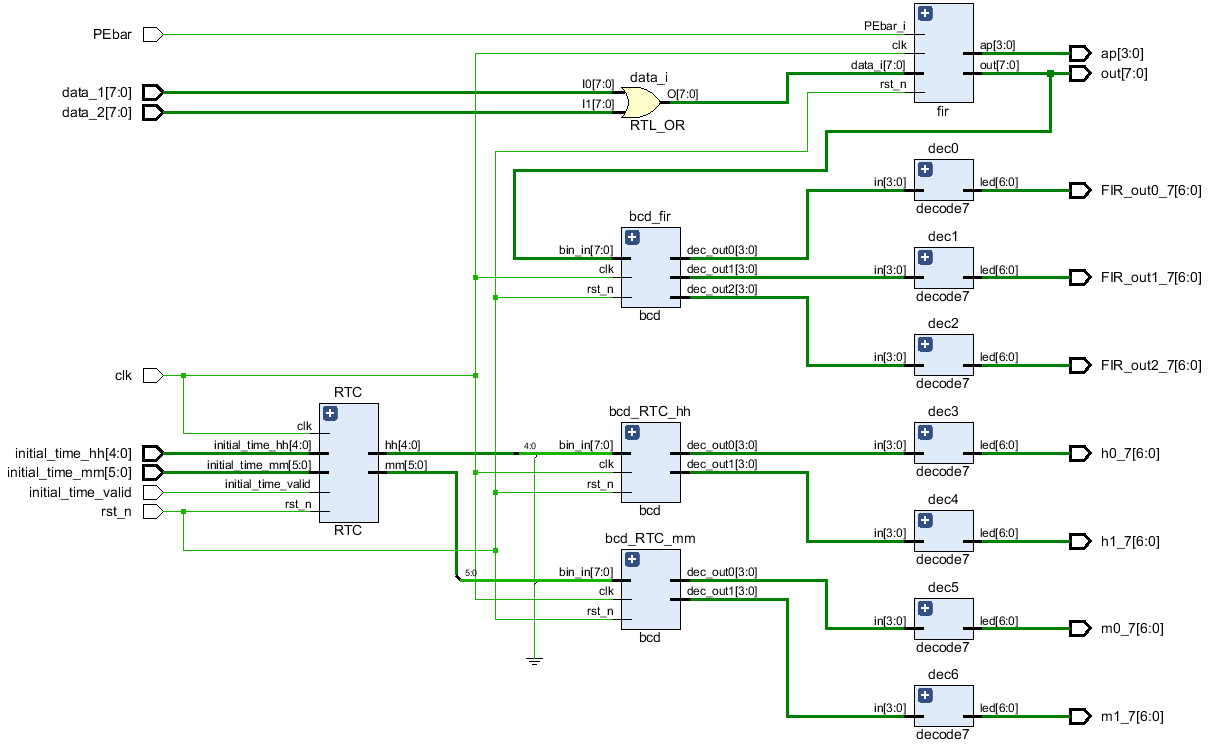
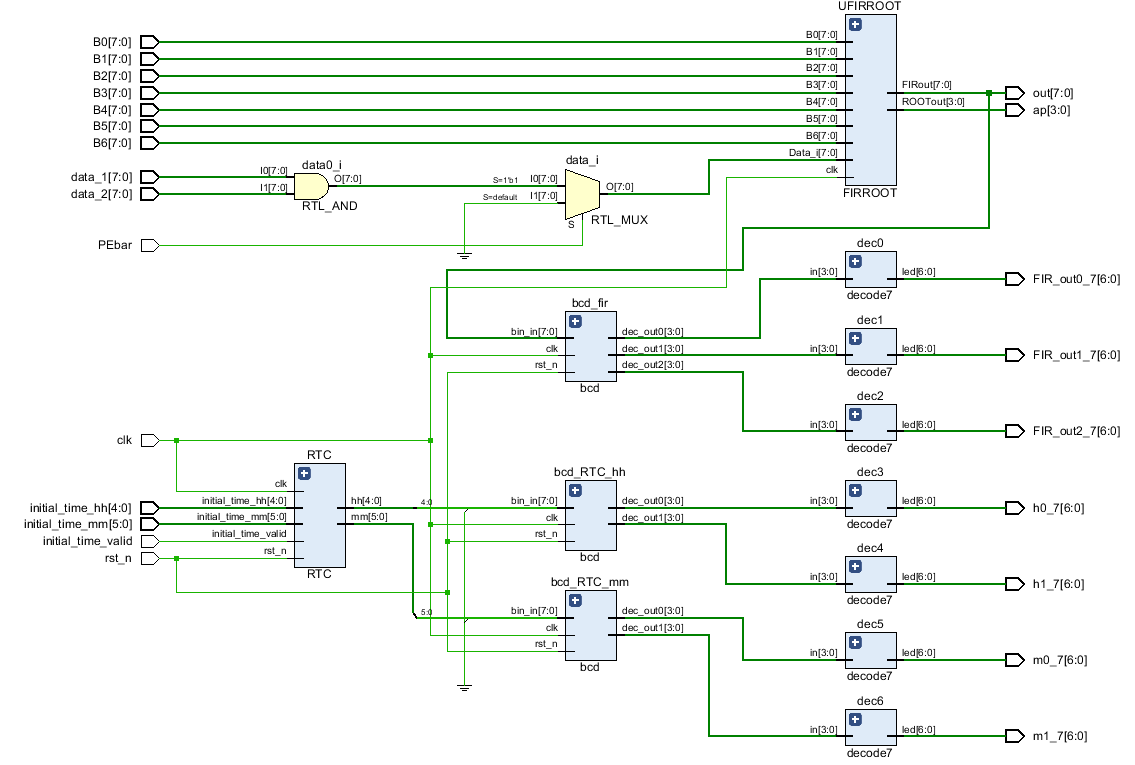
change to single cycle BCD&fic some bug

Changed region(s): [[0.0, 0.0, 0.9868, 1.0], [0.0925, 0.492, 0.1542, 0.5227], [0.0925, 0.3075, 0.1542, 0.3382]]

diff --git a/readme.md b/readme.md
@@ -1,6 +1,6 @@
 # Entity: top
 ## Diagram
-![Diagram](readme.svg "Diagram")
+![Diagram](top.svg "Diagram")
 ## Description
 
 已完成：
@@ -13,32 +13,40 @@
 ## Generics and ports
 ### Table 1.1 Generics
 ### Table 1.2 Ports
-| Port name          | Direction | Type  | Description                  |
-| ------------------ | --------- | ----- | ---------------------------- |
-| clk                | input     |       |                              |
-| rst_n              | input     |       |                              |
-| initial_time_hh    | input     | [4:0] |                              |
-| initial_time_mm    | input     | [5:0] |                              |
-| initial_time_valid | input     |       | 更新时钟，持续不超过一个周期 |
-| PEbar              | input     |       | 数据有效，持续不超过一个周期 |
-| data_1             | input     | [7:0] |                              |
-| data_2             | input     | [7:0] |                              |
-| out                | output    | [7:0] |                              |
-| h1_7               | output    | [6:0] | _7均为经过七段译码后的数据   |
-| h0_7               | output    | [6:0] |                              |
-| m1_7               | output    | [6:0] |                              |
-| m0_7               | output    | [6:0] |                              |
-| FIR_out0_7         | output    | [6:0] |                              |
-| FIR_out1_7         | output    | [6:0] |                              |
-| FIR_out2_7         | output    | [6:0] |                              |
-| ap                 | output    | [3:0] | \sqrt{x}                     |
+
+| Port name          | Direction | Type  | Description                                 |
+| ------------------ | --------- | ----- | ------------------------------------------- |
+| clk                | input     |       |                                             |
+| rst_n              | input     |       |                                             |
+| initial_time_hh    | input     | [4:0] |                                             |
+| initial_time_mm    | input     | [5:0] |                                             |
+| initial_time_valid | input     |       |                                             |
+| PEbar              | input     |       | PEbar置1期间，data有效                      |
+| data_1             | input     | [7:0] |                                             |
+| data_2             | input     | [7:0] |                                             |
+| B0                 | input     | [7:0] |                                             |
+| B1                 | input     | [7:0] |                                             |
+| B2                 | input     | [7:0] |                                             |
+| B3                 | input     | [7:0] |                                             |
+| B4                 | input     | [7:0] |                                             |
+| B5                 | input     | [7:0] |                                             |
+| B6                 | input     | [7:0] |                                             |
+| out                | output    | [7:0] |                                             |
+| h1_7               | output    | [6:0] | **_7** 均为2进制转BCD并进行七段译码后的结果 |
+| h0_7               | output    | [6:0] |                                             |
+| m1_7               | output    | [6:0] |                                             |
+| m0_7               | output    | [6:0] |                                             |
+| FIR_out0_7         | output    | [6:0] |                                             |
+| FIR_out1_7         | output    | [6:0] |                                             |
+| FIR_out2_7         | output    | [6:0] |                                             |
+| ap                 | output    | [3:0] | 对out开方后的结果，与out同步输出            |
+
 ## Schematic
 
 ![](\image-20210620220751351.png)
 
 
 ## To Do
-- [ ] 把滤波和开平方放在同一个模块里，替代fir.v（目前这个模块就是个简单打拍子然后加数，象征处理过程）
+- [ ] 如何优雅的验证七段数码管功能的正确性？
 
-- [ ] 现在是直接把端口的数往外面发，具体的数据同步发送等功能最后再往上加吧
 
